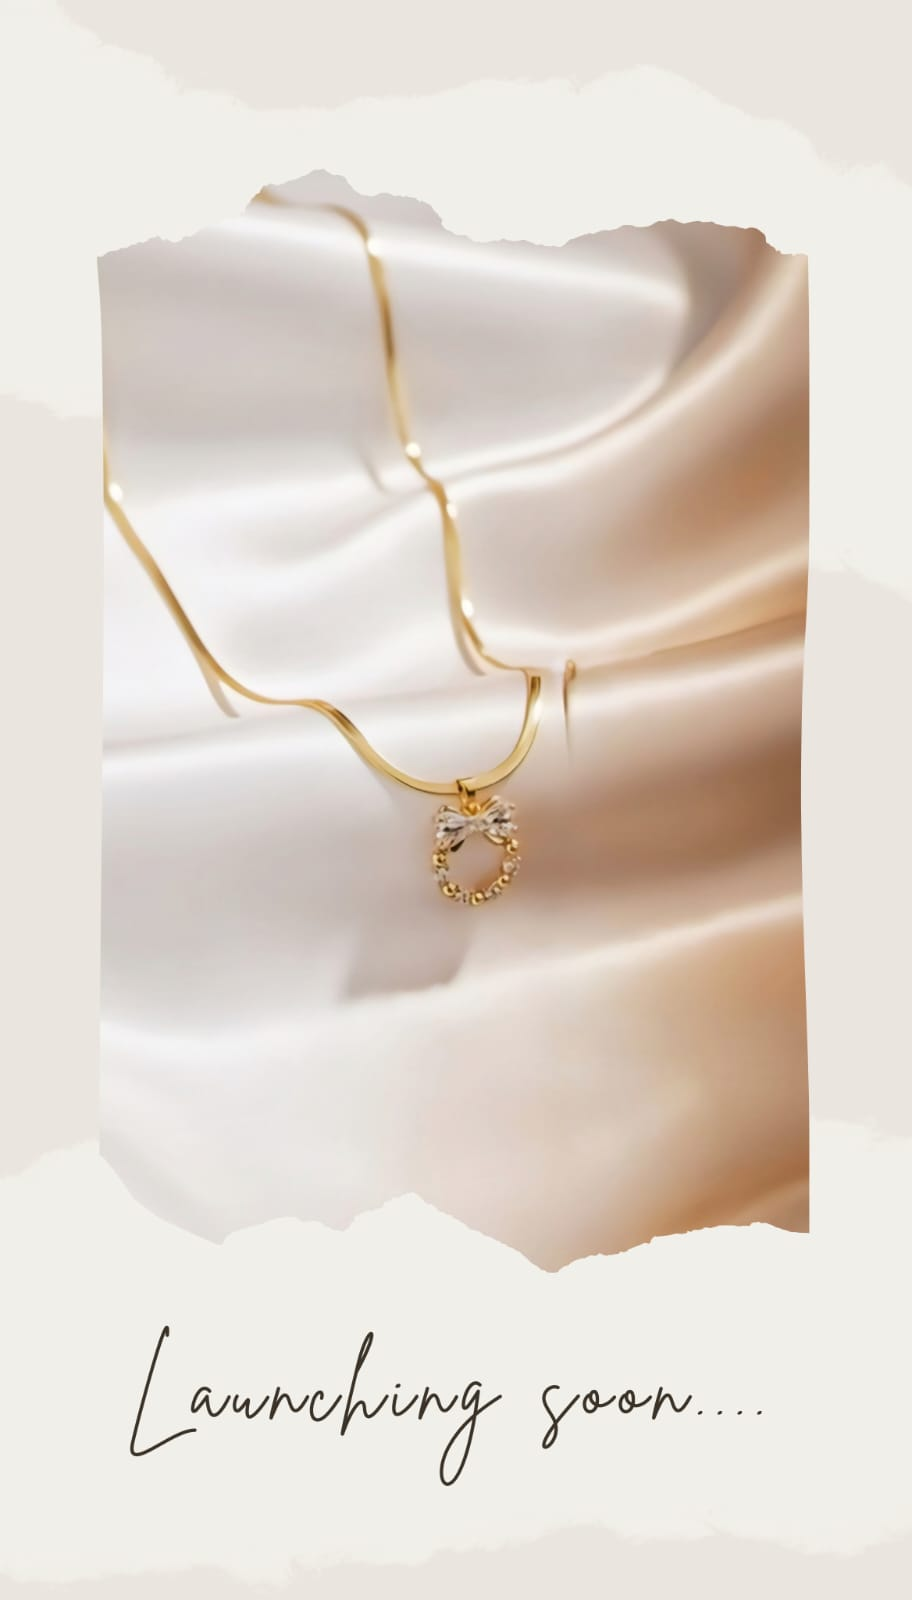
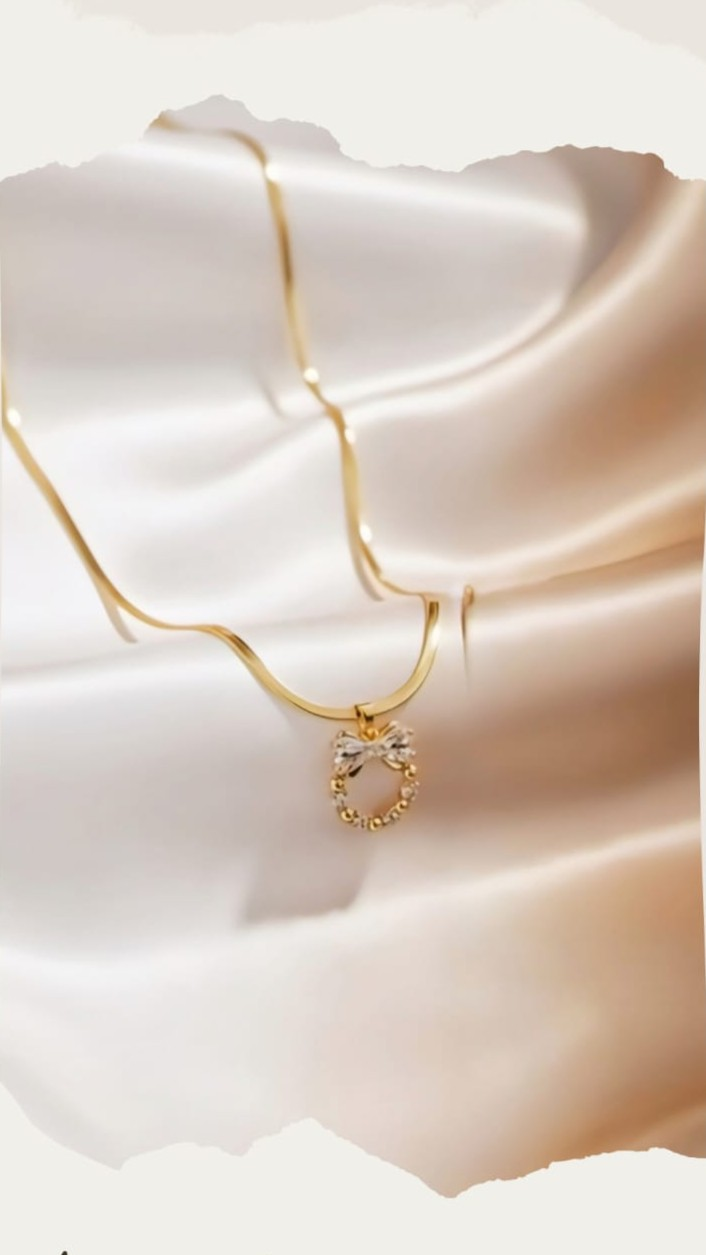
Contact form integrated to gooogle forms

diff --git a/index.html b/index.html
@@ -12,7 +12,20 @@
   <link href="https://fonts.googleapis.com/css2?family=Cormorant+Garamond:wght@400;500;600;700&family=Playfair+Display:wght@500;700&display=swap" rel="stylesheet">
 
 </head>
+<script>
+let slides = document.querySelectorAll(".slide");
+let index = 0;
 
+function showSlide() {
+  slides.forEach(slide => slide.classList.remove("active"));
+
+  index = (index + 1) % slides.length;
+
+  slides[index].classList.add("active");
+}
+
+setInterval(showSlide, 3000); // change every 3 sec
+</script>
 <body>
 
   <!-- HEADER -->
@@ -64,12 +77,16 @@
 
         <!-- IMAGE -->
         <div class="hero-media">
-          <img 
-            src="images/chain.jpeg" 
-            alt="Gold chain jewelry"
-            class="hero-image"
-          >
-        </div>
+
+        <div class="slideshow">
+
+        <img src="images/1.jpeg" class="slide active">
+        <img src="images/2.jpeg" class="slide">
+        <img src="images/3.jpeg" class="slide">
+
+         </div>
+
+</div>
 
       </div>
     </section>
@@ -104,36 +121,48 @@
         Ask about custom orders, gifting, or product availability.
       </p>
 
-      <form class="contact-form" action="#" method="post">
+ <form class="contact-form"
+      action="https://docs.google.com/forms/u/0/d/e/1FAIpQLSfv-Zv23iO66ekXWBGufP407MuWLqw6cZagtHA1vc5J4hTUmg/formResponse"
+      method="POST"
+      target="hidden_iframe">
 
-        <div class="form-row">
-          <input 
-            type="text" 
-            name="name" 
-            placeholder="Your name" 
-            required
-          >
+  <div class="form-row">
+    <input 
+      type="text" 
+      name="entry.601090301"
+      placeholder="Your name" 
+      required
+    >
 
-          <input 
-            type="email" 
-            name="email" 
-            placeholder="Your email" 
-            required
-          >
-        </div>
+    <input 
+      type="email" 
+      name="entry.1735114164"
+      placeholder="Your email" 
+      required
+    >
+  </div>
 
-        <textarea 
-          name="message" 
-          placeholder="Your message"
-          rows="4"
-          required
-        ></textarea>
+  <textarea 
+    name="entry.1908031298"
+    placeholder="Your message"
+    rows="4"
+    required
+  ></textarea>
+<script>
+document.querySelector(".contact-form").addEventListener("submit", function() {
+  setTimeout(() => {
+    alert("Thank you! Lyka will contact you soon 💎");
+  }, 500);
+});
+</script>
+  <button type="submit" class="button">
+    Send Message
+  </button>
 
-        <button type="submit" class="button">
-          Send Message
-        </button>
+</form>
 
-      </form>
+<!-- Prevent redirect -->
+<iframe name="hidden_iframe" style="display:none;"></iframe>
 
       <div class="contact-extra">
         <p>Or reach out directly:</p>

diff --git a/style.css b/style.css
@@ -158,6 +158,32 @@ button {
   text-decoration: none;
   font-weight: 500;
 }
+.hero-media {
+  position: relative;
+  width: 100%;
+  max-width: 500px;
+  margin: auto;
+}
+
+.slideshow {
+  position: relative;
+}
+
+.slide {
+  width: 100%;
+  height: auto;
+  position: absolute;
+  top: 0;
+  left: 0;
+  opacity: 0;
+  transition: opacity 1s ease-in-out;
+  border-radius: 12px;
+}
+
+.slide.active {
+  opacity: 1;
+  position: relative;
+}
 .hero-image {
   width: 100%;
   height: auto;
